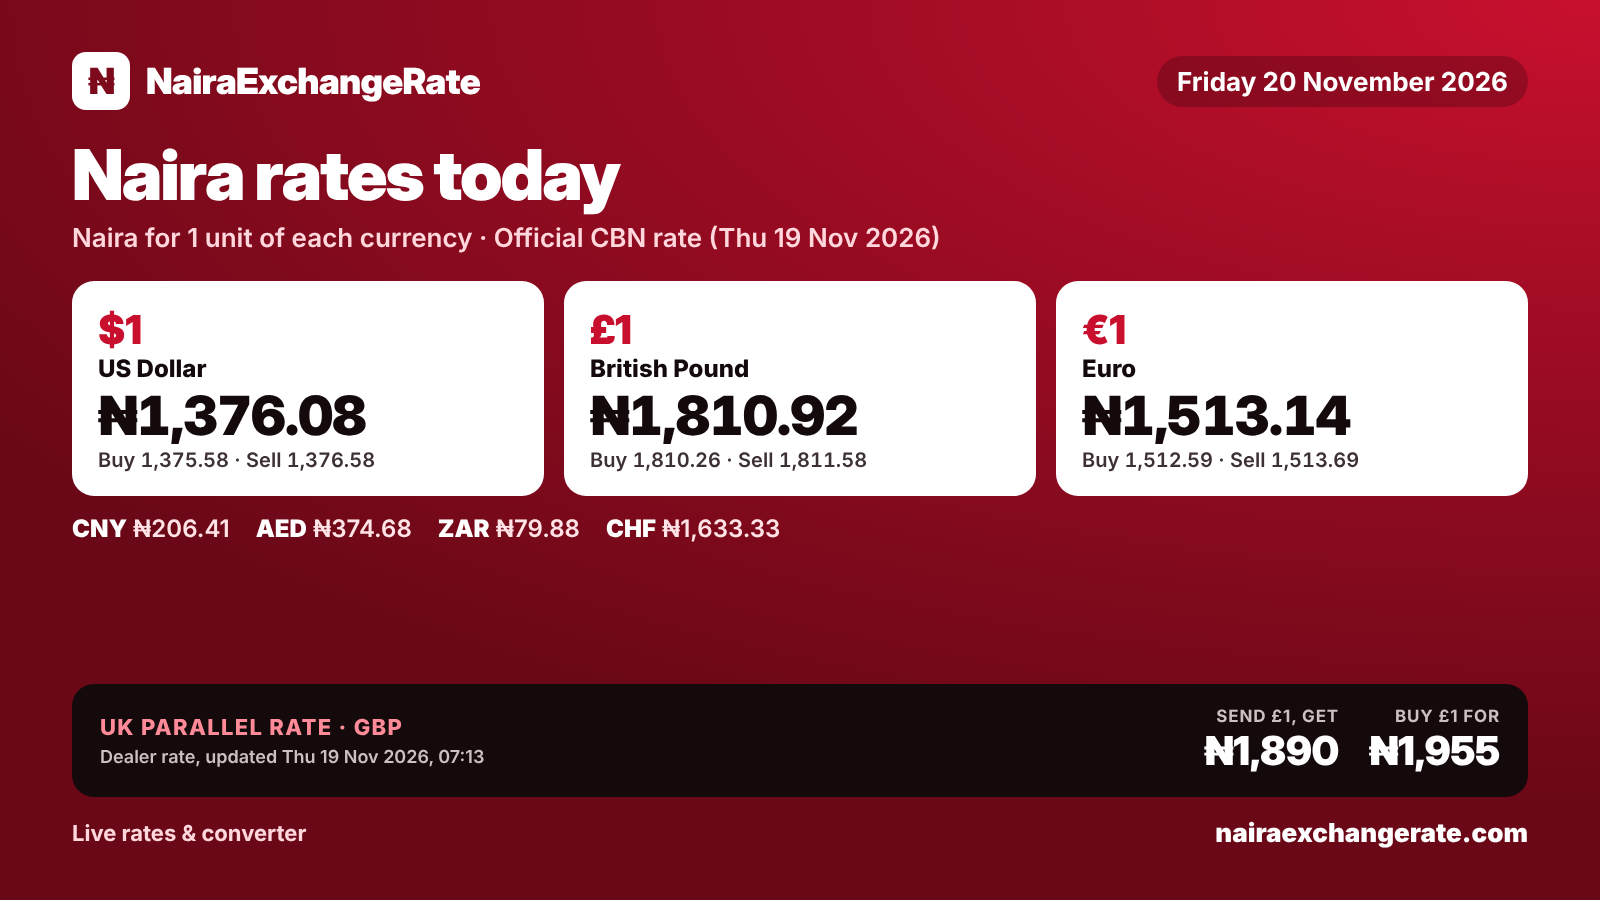
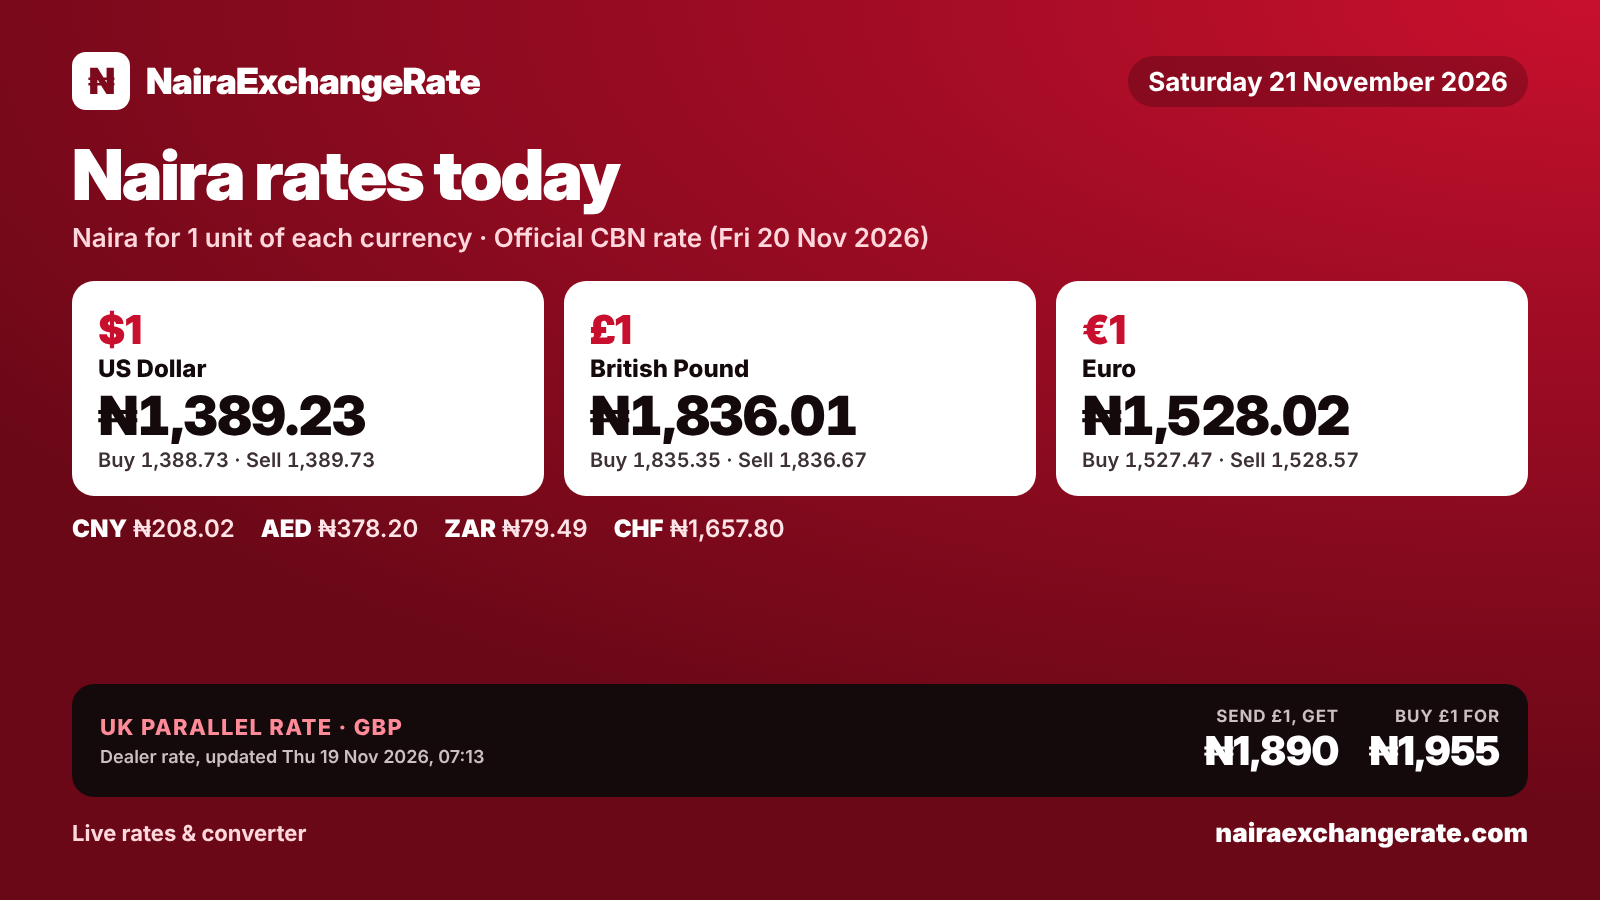
Daily update 2026-11-21
Claude-Session: https://claude.ai/code/session_01NfXuJvWNg1GJ8hYu1niKjE

diff --git a/index.html b/index.html
@@ -353,61 +353,82 @@ footer .wrap{padding-block:22px 34px;font-size:.84rem;color:var(--muted);display
     }
   ],
   "cbn": {
-    "date": "2026-11-19",
+    "date": "2026-11-20",
     "rates": {
       "xof": {
-        "buy": 2.2586,
-        "middle": 2.2686,
-        "sell": 2.2786
+        "buy": 2.2859,
+        "middle": 2.2959,
+        "sell": 2.3059
       },
       "cny": {
-        "buy": 206.333,
-        "middle": 206.408,
-        "sell": 206.483
+        "buy": 207.9409,
+        "middle": 208.0158,
+        "sell": 208.0907
       },
       "eur": {
-        "buy": 1512.5885,
-        "middle": 1513.1383,
-        "sell": 1513.6881
+        "buy": 1527.468,
+        "middle": 1528.0179,
+        "sell": 1528.5679
       },
       "jpy": {
-        "buy": 8.6022,
-        "middle": 8.6053,
-        "sell": 8.6085
+        "buy": 8.7556,
+        "middle": 8.7588,
+        "sell": 8.762
       },
       "sar": {
-        "buy": 366.6846,
-        "middle": 366.8179,
-        "sell": 366.9512
+        "buy": 370.023,
+        "middle": 370.1563,
+        "sell": 370.2895
       },
       "zar": {
-        "buy": 79.8503,
-        "middle": 79.8793,
-        "sell": 79.9083
+        "buy": 79.4584,
+        "middle": 79.487,
+        "sell": 79.5156
       },
       "chf": {
-        "buy": 1632.7367,
-        "middle": 1633.3302,
-        "sell": 1633.9237
+        "buy": 1657.1999,
+        "middle": 1657.7965,
+        "sell": 1658.3932
       },
       "gbp": {
-        "buy": 1810.2642,
-        "middle": 1810.9222,
-        "sell": 1811.5802
+        "buy": 1835.3502,
+        "middle": 1836.011,
+        "sell": 1836.6718
       },
       "usd": {
-        "buy": 1375.5807,
-        "middle": 1376.0807,
-        "sell": 1376.5807
+        "buy": 1388.7335,
+        "middle": 1389.2335,
+        "sell": 1389.7335
       },
       "aed": {
-        "buy": 374.5421,
-        "middle": 374.6782,
-        "sell": 374.8144
+        "buy": 378.0616,
+        "middle": 378.1977,
+        "sell": 378.3338
       }
     }
   },
   "news": [
+    {
+      "source": "BusinessDay",
+      "title": "Naira nears 1,400/$ as reserves shed $610m in less than a month",
+      "summary": "The official rate closed the week at about N1,389.73 per dollar while external reserves slipped to $54.65bn.",
+      "url": "https://businessday.ng/business-economy/article/naira-nears-1400-as-reserves-shed-610m-in-less-than-a-month/",
+      "date": "2026-11-21"
+    },
+    {
+      "source": "BusinessDay",
+      "title": "Dangote cuts petrol gantry price to lowest in four months",
+      "summary": "Dangote refinery lowered its petrol gantry price by N60 to N1,070 per litre, down from N1,130.",
+      "url": "https://businessday.ng/energy/oilandgas/article/dangote-cuts-petrol-gantry-price-to-lowest-in-four-months/",
+      "date": "2026-11-20"
+    },
+    {
+      "source": "P.M. News",
+      "title": "Nigerian stock market loses N407bn as bearish sentiment persists",
+      "summary": "NGX market capitalisation dipped 0.25% to N160.803trn on Friday, wiping N407bn off investors' wealth.",
+      "url": "https://pmnewsnigeria.com/2026/11/20/nigerian-stock-market-loses-n407bn-as-bearish-sentiment-persists/",
+      "date": "2026-11-20"
+    },
     {
       "source": "THISDAY",
       "title": "Stock Market Declines Marginally as Investors’ Profit-taking Persist",
@@ -428,27 +449,6 @@ footer .wrap{padding-block:22px 34px;font-size:.84rem;color:var(--muted);display
       "summary": "Dangote Refinery cut its petrol depot price by N25 to N1,105 per litre, its second reduction in three days.",
       "url": "https://www.legit.ng/business-economy/energy/1742312-again-dangote-slashes-petrol-price-nnpc-filling-stations-reduce-rates",
       "date": "2026-11-19"
-    },
-    {
-      "source": "THISDAY",
-      "title": "Stock Market Drops by N642bn to Sustain Downward Trend",
-      "summary": "The NGX All-Share Index slipped 0.40% to 248,329.65 as investors lost N642bn, with Aradel down 10%.",
-      "url": "https://www.thisdaylive.com/2026/11/19/stock-market-drops-by-n642bn-to-sustain-downward-trend/",
-      "date": "2026-11-19"
-    },
-    {
-      "source": "BusinessDay",
-      "title": "Naira weakens as seasonal dollar demand tests CBN firepower",
-      "summary": "The naira fell 0.55% to N1,363.23/$ at the official market, while the parallel rate rose to N1,460/$.",
-      "url": "https://businessday.ng/business-economy/article/naira-weakens-as-seasonal-dollar-demand-tests-cbn-firepower/",
-      "date": "2026-11-18"
-    },
-    {
-      "source": "BusinessDay",
-      "title": "CBN, NNPC sign MoU to strengthen energy financing, FX coordination",
-      "summary": "The central bank and NNPC signed a deal to coordinate energy financing and support steadier dollar inflows.",
-      "url": "https://businessday.ng/news/article/cbn-nnpc-sign-mou-to-strengthen-energy-financing-fx-coordination/",
-      "date": "2026-11-18"
     }
   ],
   "whatsappChannel": "https://whatsapp.com/channel/0029VbEJwXxCnA7nV3kcN73I"
